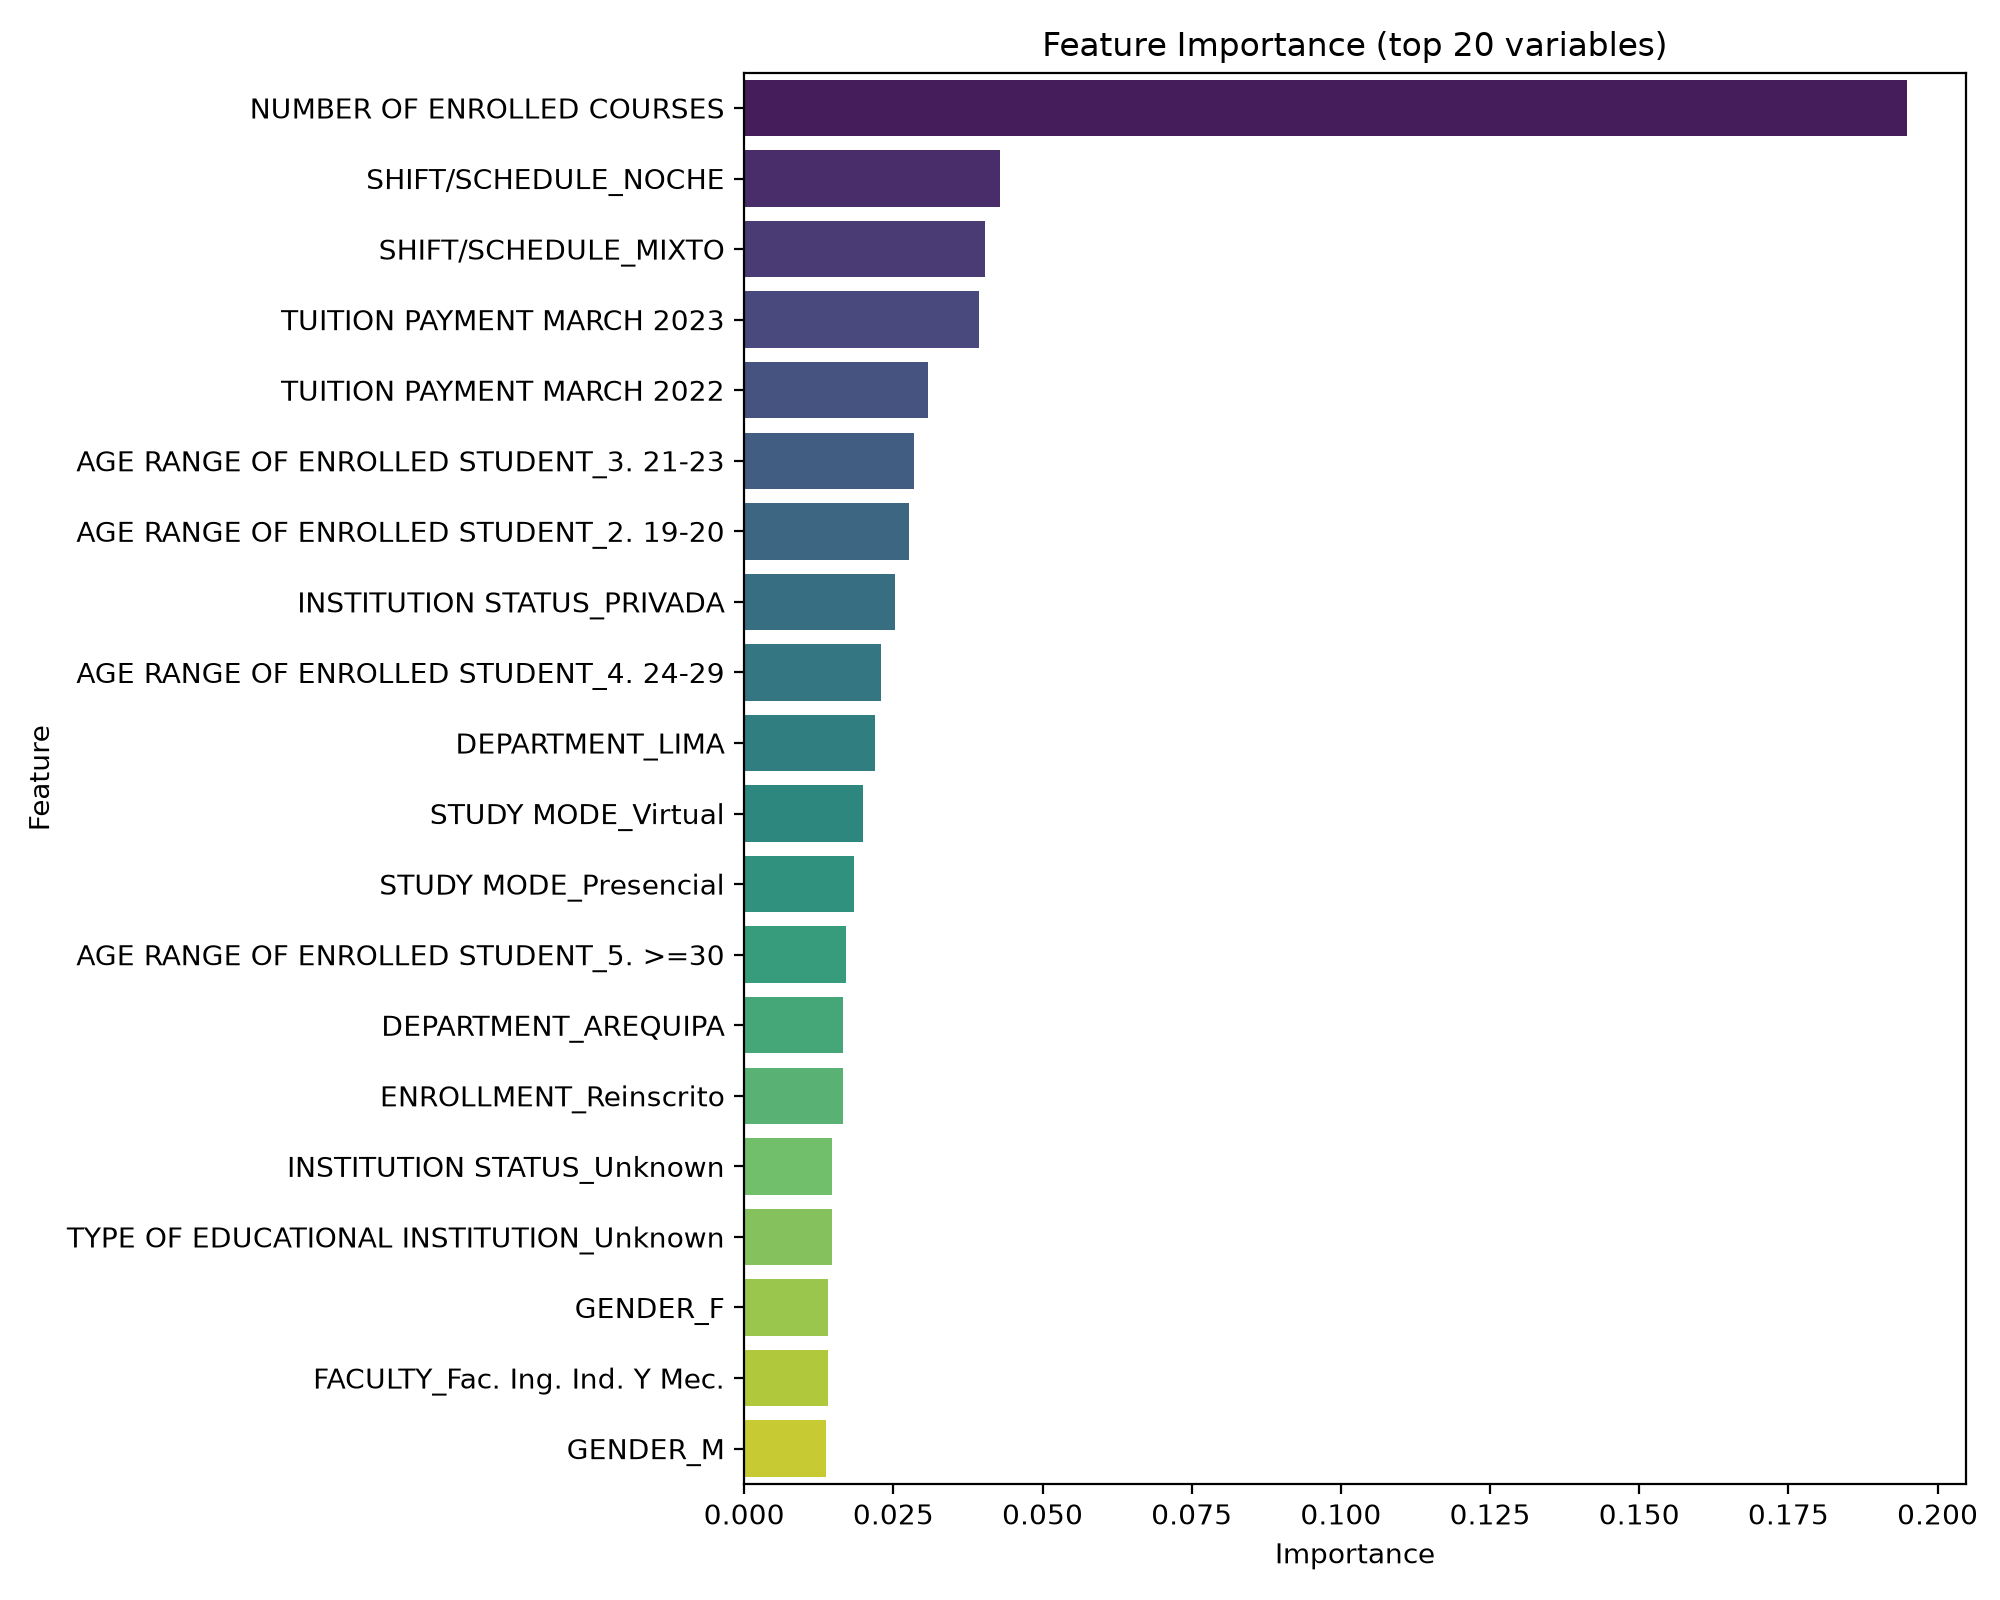
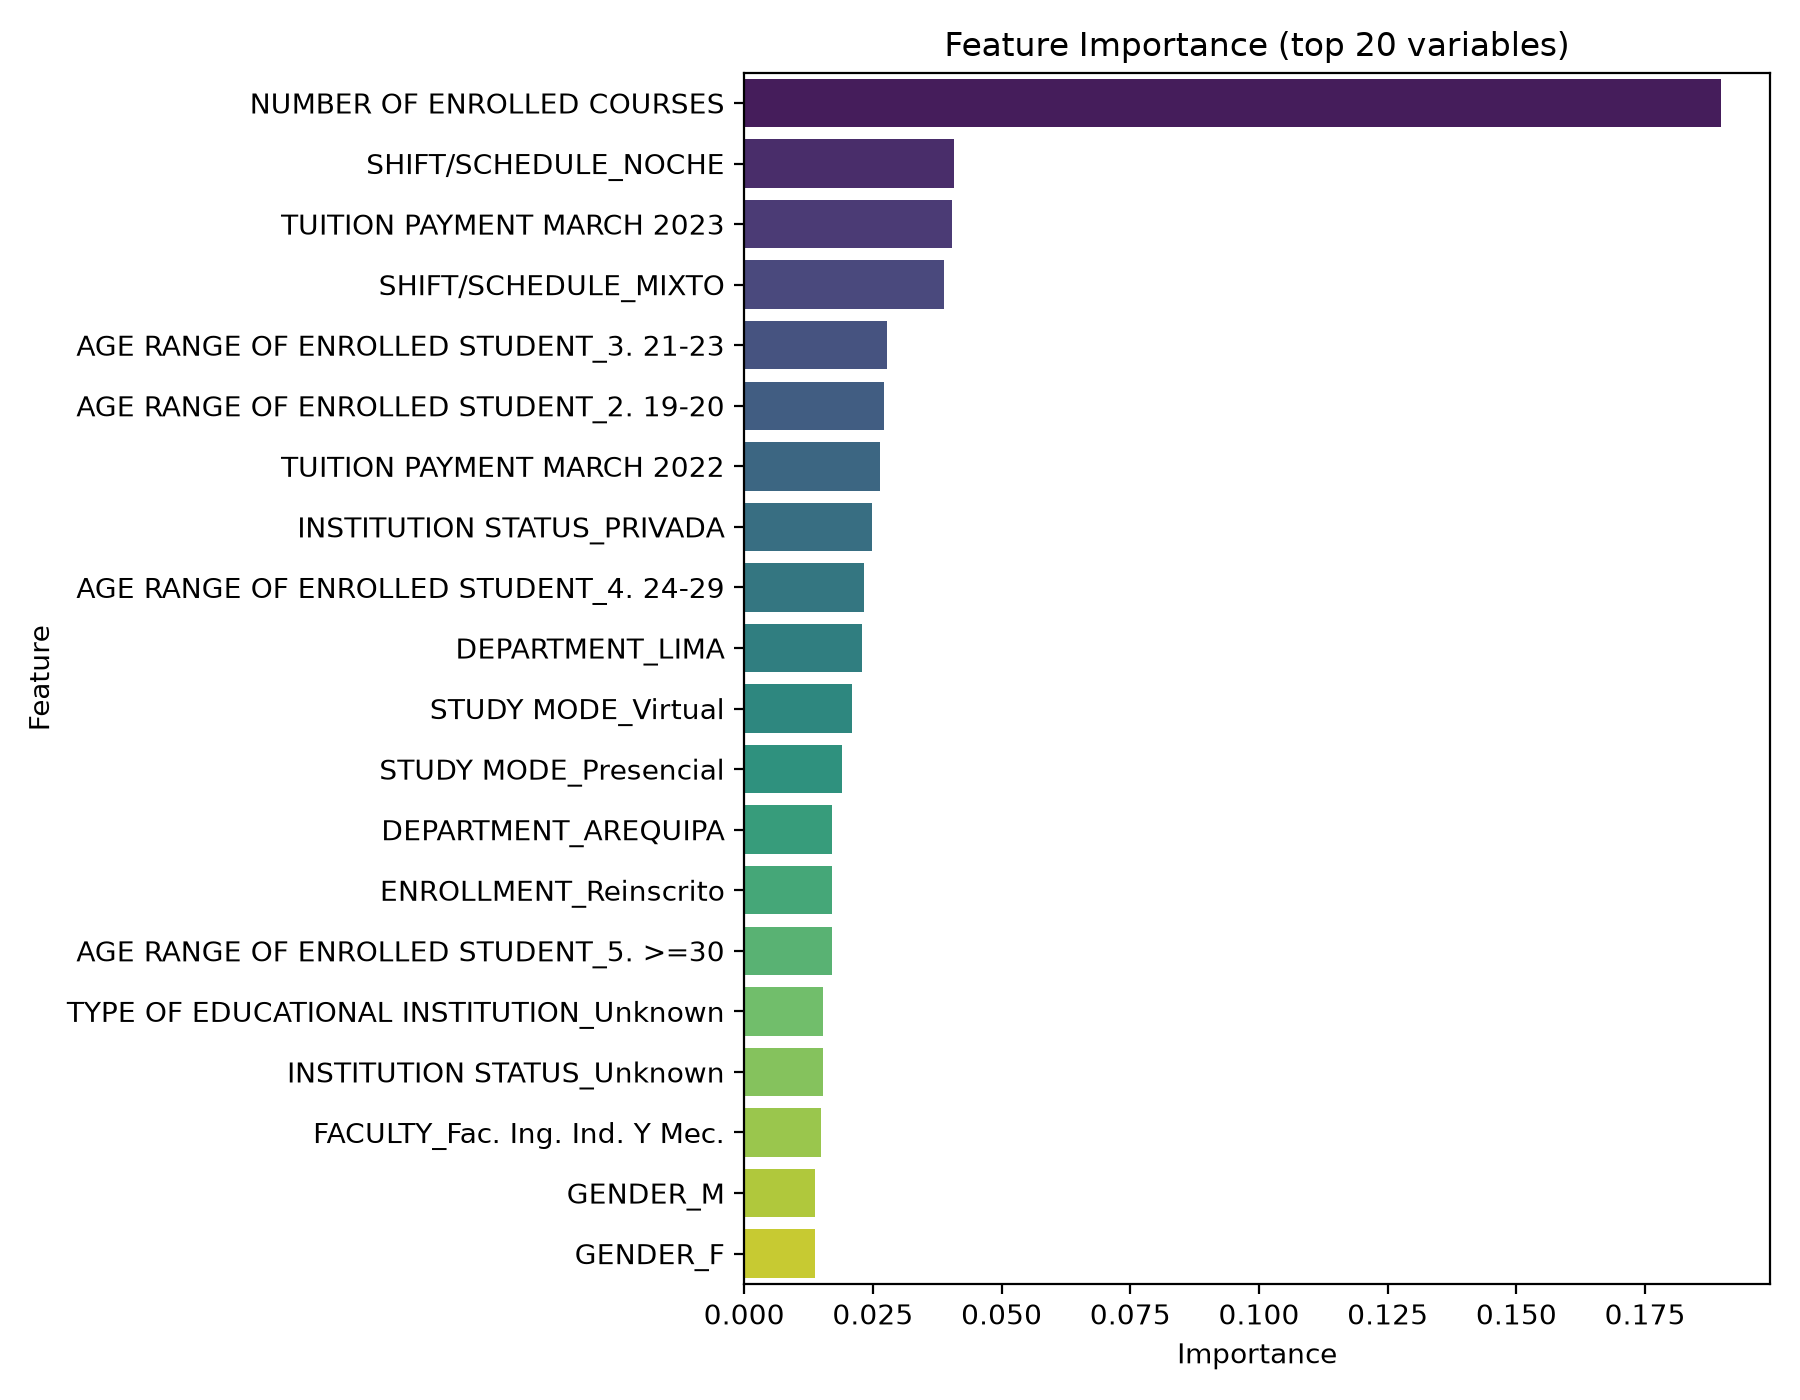
corrige entrenamiento y limpia warnings de gráficos

Changed region(s): [[0.0311, 0.0, 0.9956, 0.9829], [0.0, 0.4607, 0.0311, 0.5221]]

diff --git a/src/train_model.py b/src/train_model.py
@@ -6,13 +6,12 @@ from sklearn.ensemble import RandomForestClassifier
 
 def train_random_forest(X_train, y_train, model_path: Path) -> RandomForestClassifier:
     """Entrenar un RandomForestClassifier y guardar el modelo en disco."""
-    def create_model():
-    return RandomForestClassifier(
-        n_estimators=100,
-        random_state=42
+    model = RandomForestClassifier(
+        n_estimators=200,
+        random_state=42,
+        class_weight='balanced_subsample',
+        n_jobs=-1,
     )
-
-    model = create_model()
     model.fit(X_train, y_train)
     model_path.parent.mkdir(parents=True, exist_ok=True)
     joblib.dump(model, model_path)

diff --git a/src/exploratory_analysis.py b/src/exploratory_analysis.py
@@ -36,8 +36,7 @@ def plot_distribution_at_risk(df: pd.DataFrame, output_file: Path) -> None:
     labels = ['No Risk', 'At Risk']
 
     plt.figure(figsize=(8, 6))
-    sns.barplot(x=counts.index, y=counts.values, palette='muted')
-    plt.xticks([0, 1], labels)
+    sns.barplot(x=labels, y=counts.values, hue=labels, palette='muted', dodge=False, legend=False)
     plt.xlabel('Academic Risk')
     plt.ylabel('Number of Students')
     plt.title('Distribución de estudiantes por riesgo académico')
@@ -55,7 +54,7 @@ def plot_risk_by_category(df: pd.DataFrame, category: str, output_file: Path) ->
     df_plot['AT_RISK_BINARY'] = (df_plot['AT-RISK COURSE'] > 0).astype(int)
     group = df_plot.groupby(category)['AT_RISK_BINARY'].mean().sort_values(ascending=False)
     plt.figure(figsize=(10, 6))
-    sns.barplot(x=group.values, y=group.index, palette='coolwarm')
+    sns.barplot(x=group.values, y=group.index, hue=group.index, palette='coolwarm', dodge=False, legend=False)
     plt.xlabel('Proporción de estudiantes en riesgo')
     plt.ylabel(category)
     plt.title(f'Riesgo académico por {category}')

diff --git a/src/evaluate_model.py b/src/evaluate_model.py
@@ -30,7 +30,7 @@ def save_feature_importance(model, feature_names, output_file: Path, top_n: int 
     top_importances = importances[indices]
 
     plt.figure(figsize=(9, 7))
-    sns.barplot(x=top_importances, y=top_features, palette='viridis')
+    sns.barplot(x=top_importances, y=top_features, hue=top_features, palette='viridis', dodge=False, legend=False)
     plt.xlabel('Importance')
     plt.ylabel('Feature')
     plt.title('Feature Importance (top {} variables)'.format(top_n))